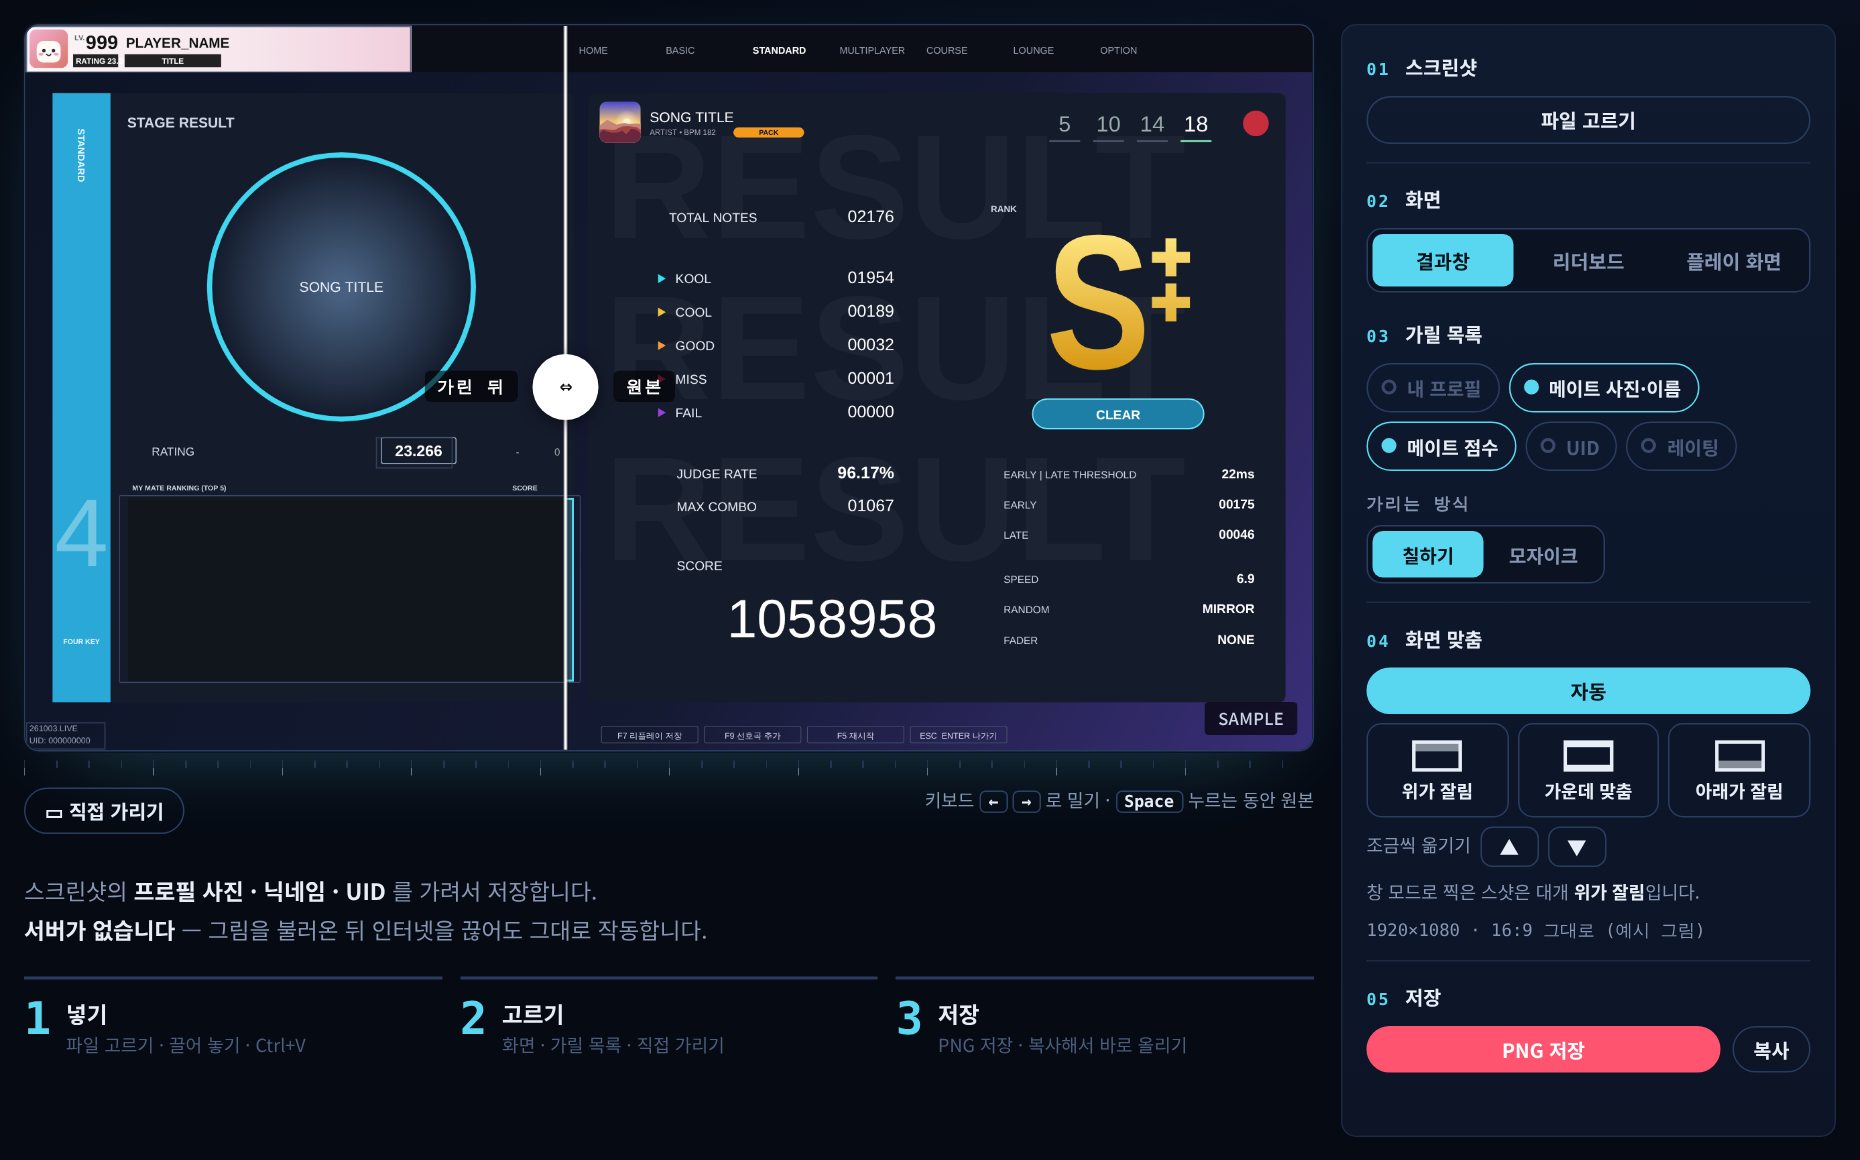
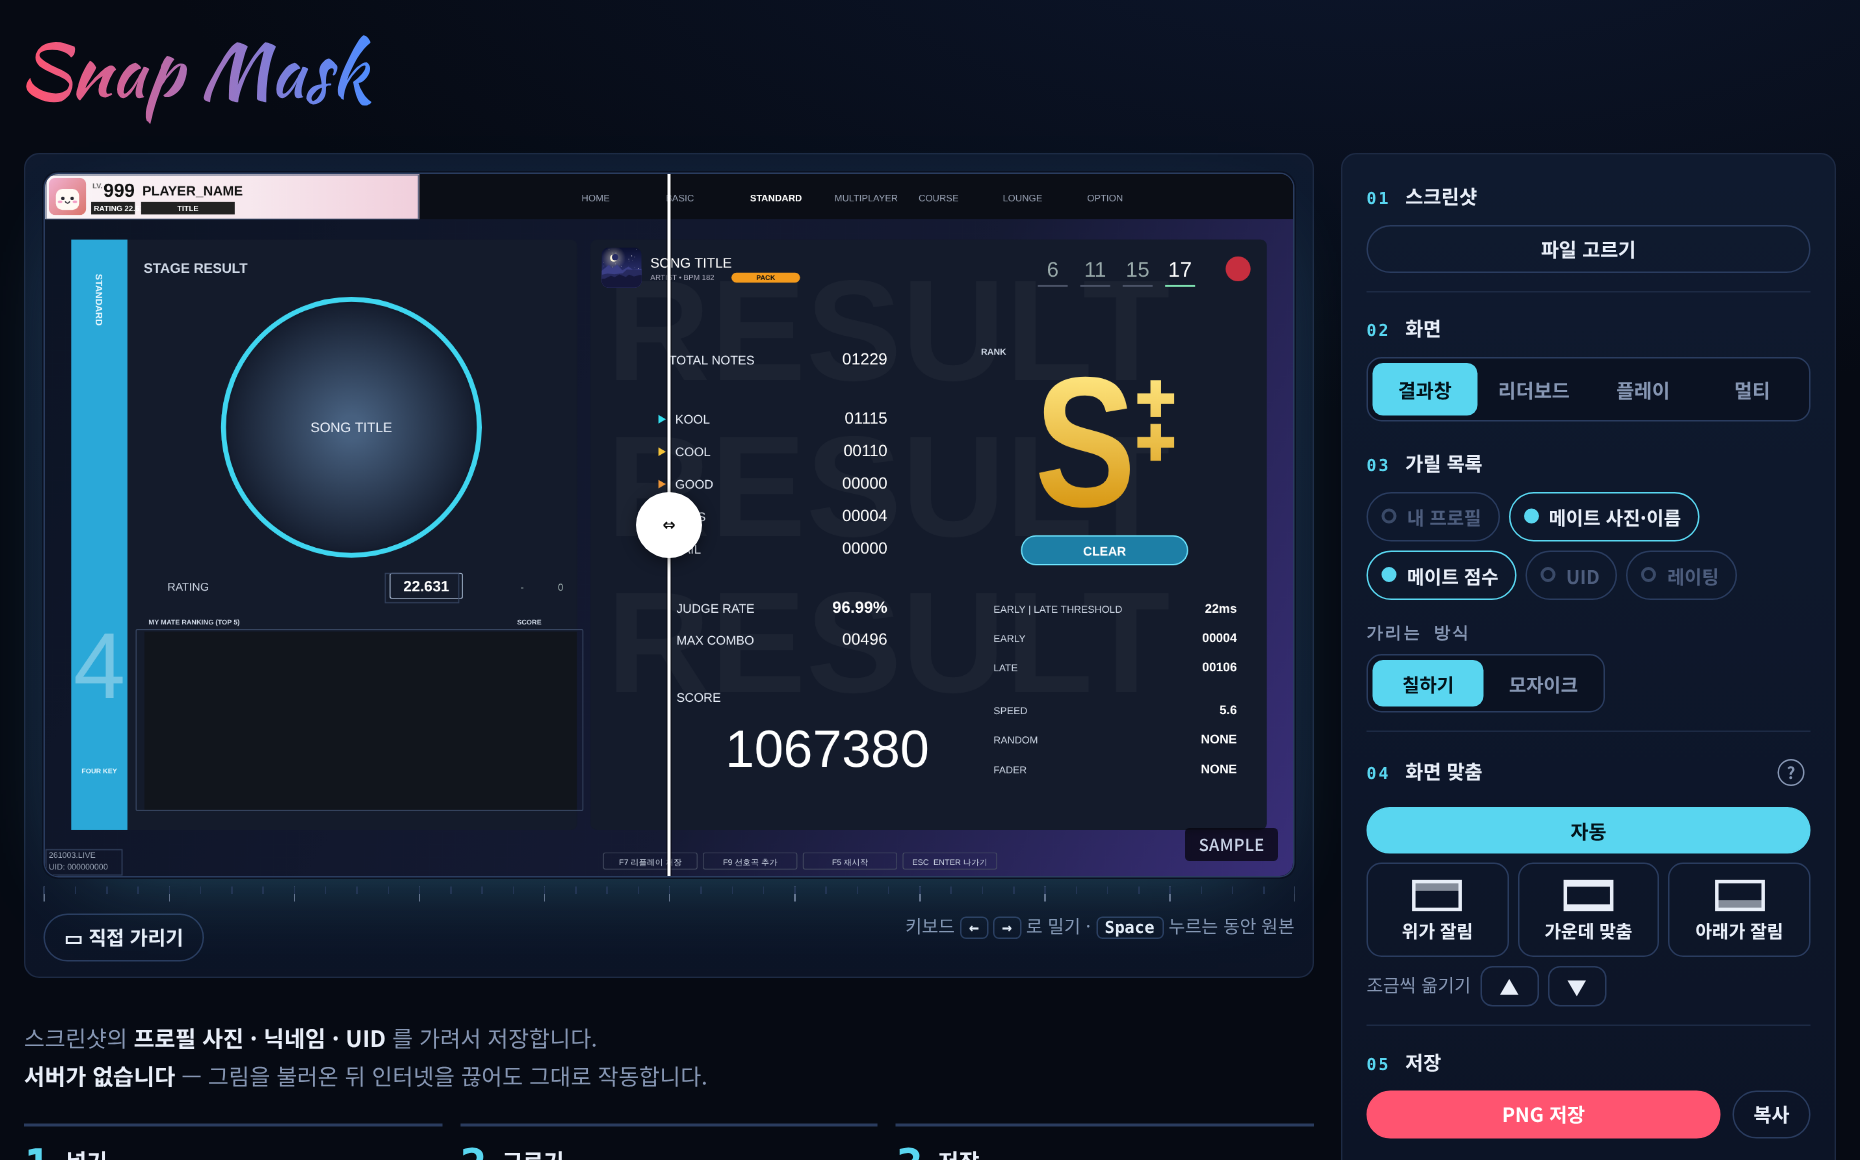
v1.0 — 멀티 결과창 · 두 판 배치
- 멀티 결과창 탭 추가 (내 프로필 · 참가자 1~5 · 메이트 순위 · UID)
- 미리보기를 오른쪽 패널과 같은 판에 담음 · 설명 위 선 뺌
- «화면 맞춤» 설명은 ? 단추로 접어 둠 · «(예시 그림)» 글자 뺌
- README: 멀티 결과창 한 줄 · 예시 그림 새로 찍음

diff --git a/index.html b/index.html
@@ -118,6 +118,8 @@ button.b.clr:hover{background:var(--acc2);color:#fff;border-color:var(--acc2)}
 button.b.qm{padding:5px 12px 5px 6px;font-size:12.5px;color:var(--dim)}
 button.b.qm i{font-style:normal;width:18px;height:18px;border-radius:50%;border:1.5px solid currentColor;display:grid;place-items:center;font:700 11px var(--f-ui)}
 button.b.qm[aria-expanded="true"]{color:var(--ink);border-color:var(--acc)}
+button.b.qm.only{margin-left:auto;padding:3px;border-color:transparent}
+button.b.qm.only[aria-expanded="true"]{border-color:var(--acc)}
 .helpbox{margin-top:10px;padding:12px 14px;border:1px solid var(--line2);border-radius:calc(var(--r) * .8);background:var(--bg2);font-size:13px;color:var(--dim)}
 .helpbox p{margin:0}.helpbox p+p{margin-top:5px}
 .helpbox b{color:var(--ink)}
@@ -134,6 +136,10 @@ button.b.qm[aria-expanded="true"]{color:var(--ink);border-color:var(--acc)}
 .th:focus-visible,.th .x:focus-visible{outline:2px solid var(--acc);outline-offset:2px}
 .seg button .cnt{font:600 11px var(--f-mono);margin-left:5px;opacity:.75}
 .skipnote{margin:8px 0 0;font-size:12.5px;color:var(--warn)}
+
+/* 작업 판 (100차 · 사람 결정 «① 두 판»): 미리보기·눈금·아래 줄을 오른쪽 패널과 같은 판에 담는다 */
+.workcard{background:var(--panel);border:var(--bw) solid var(--line);border-radius:var(--r);padding:12px 12px 10px}
+html[data-look="kool"] .workcard{background:linear-gradient(180deg,#0f1a2f,#0c1426)}
 
 /* 아래 띠 */
 .foot{margin-top:28px;display:flex;flex-wrap:wrap;gap:6px 22px;color:var(--faint);font:500 11.5px var(--f-mono);letter-spacing:.04em}
@@ -154,7 +160,7 @@ html[data-look="kool"] .ticks{display:block}
 
 /* 02 화면 종류 = 붙은 탭(하나만 고름) · 가릴 칸 = 칩(여럿) — 꼴로 구분 */
 .seg{display:grid;grid-auto-flow:column;grid-auto-columns:1fr;background:var(--bg2);border:1px solid var(--line2);border-radius:10px;padding:3px;gap:3px}
-.seg button{font:600 13px var(--f-ui);color:var(--dim);background:transparent;border:0;border-radius:7px;padding:8px 6px;cursor:pointer}
+.seg button{font:600 13px var(--f-ui);color:var(--dim);background:transparent;border:0;border-radius:7px;padding:8px 4px;cursor:pointer;white-space:nowrap}
 .seg button:hover{color:var(--ink)}
 .seg button.on{background:var(--acc);color:var(--acc-ink)}
 .seg button:focus-visible{outline:2px solid var(--acc);outline-offset:1px}
@@ -177,7 +183,7 @@ html[data-look="kool"] .ticks{display:block}
 @media (max-width:900px){.tip{display:none!important}}
 
 /* 미리보기 아래 — 설명(제목 밑에서 옮겨 옴) + 쓰는 법 세 걸음 */
-.below{margin-top:28px;padding-top:24px;border-top:1px solid var(--line);display:grid;gap:18px}
+.below{margin-top:28px;display:grid;gap:18px}
 .lead{margin:0;font-size:15px;line-height:1.7;color:var(--dim);max-width:72ch}
 .lead b{color:var(--ink)}
 .howto,.pledge,.kinds{display:none}
@@ -267,6 +273,7 @@ function AV(x, X, Y, W, hue, style) {
 
   <div class="main">
     <div class="stagebox">
+      <div class="workcard">
       <div class="stage" id="stage">
         <canvas id="cv" width="1920" height="1080" aria-label="미리보기 — 칸을 누르면 켜고 끕니다 · 끌면 새 칸"></canvas>
         <span class="lab l" id="labL">가린 뒤</span><span class="lab r" id="labR">원본</span>
@@ -277,13 +284,8 @@ function AV(x, X, Y, W, hue, style) {
       <div class="ticks" aria-hidden="true"></div>
       <div class="stagecap">
         <span id="capL"><button class="b tool" id="tool" aria-pressed="false">▭ 직접 가리기</button><span class="toolhint" id="toolHint" hidden>미리보기에서 끌면 그 자리를 바로 칠함 · 칸을 누르면 지움 · Esc 로 끄기</span></span>
-        <span id="capR"><button class="b qm" id="helpBtn" aria-expanded="false" aria-controls="helpBox"><i>?</i>미리보기 보는 법</button></span>
+        <span id="capR">키보드 <kbd>←</kbd> <kbd>→</kbd> 로 밀기 · <kbd>Space</kbd> 누르는 동안 원본</span>
       </div>
-      <div class="helpbox" id="helpBox" hidden>
-        <p><b>손잡이 왼쪽은 가린 뒤, 오른쪽은 원본</b>입니다. 손잡이를 끌거나 <kbd>←</kbd> <kbd>→</kbd> 로 밉니다.</p>
-        <p><kbd>Space</kbd> 를 누르는 동안은 원본만 보입니다.</p>
-        <p>가릴 칸이 오른쪽에 많은 리더보드는 손잡이를 오른쪽에 두고 시작합니다.</p>
-        <p>저장되는 그림은 손잡이 위치와 상관없이 늘 «가린 뒤» 입니다.</p>
       </div>
       <div class="batch" id="batch" hidden>
         <div class="batchbar"><h2 class="bt">넣은 스크린샷</h2><span id="batchInfo"></span><button class="b clr" id="batchClear">✕ 모두 비우기</button></div>
@@ -309,8 +311,8 @@ function AV(x, X, Y, W, hue, style) {
 
       <section class="step">
         <h2 class="sh"><span class="n">02</span>화면</h2>
-        <div class="seg" id="kind" role="tablist"><button data-k="result" role="tab">결과창</button><button data-k="board" role="tab">리더보드</button><button data-k="play" role="tab">플레이 화면</button></div>
-        <p class="skipnote" id="skipNote" hidden>2.0 결과창·리더보드·플레이 화면으로 보이지 않아 저장에서 빠집니다. 셋 중 하나가 맞다면 위에서 고르세요.</p>
+        <div class="seg" id="kind" role="tablist"><button data-k="result" role="tab">결과창</button><button data-k="board" role="tab">리더보드</button><button data-k="play" role="tab">플레이</button><button data-k="multi" role="tab">멀티</button></div>
+        <p class="skipnote" id="skipNote" hidden>결과창·리더보드·플레이 화면으로 보이지 않아 저장에서 빠집니다. 멀티 결과창이거나 맞는 화면이 있으면 위에서 고르세요.</p>
         <h2 class="sh" style="margin-top:18px"><span class="n">03</span>가릴 목록</h2>
         <div class="chips" id="chips"></div>
         <div class="sub">가리는 방식</div>
@@ -318,12 +320,14 @@ function AV(x, X, Y, W, hue, style) {
       </section>
 
       <section class="step" id="fitStep">
-        <h2 class="sh"><span class="n">04</span>화면 맞춤</h2>
+        <h2 class="sh"><span class="n">04</span>화면 맞춤<button class="b qm only" id="fitQ" aria-expanded="false" aria-controls="fitMore" aria-label="화면 맞춤 설명"><i>?</i></button></h2>
         <!-- 이름 B 변형: 늘 보인다 -->
         <div id="fitB">
           <div class="fitrow" id="ancB"></div>
-          <p class="hint">창 모드로 찍은 스샷은 대개 <b>위가 잘림</b>입니다.</p>
-          <p class="fitinfo" id="fitinfoB"></p>
+          <div id="fitMore" hidden>
+            <p class="hint">창 모드로 찍은 스샷은 대개 <b>위가 잘림</b>입니다.</p>
+            <p class="fitinfo" id="fitinfoB"></p>
+          </div>
         </div>
         <!-- 이름 배치안: 평소엔 자동만 · 어긋날 때 펼침 -->
         <div id="fitF">
@@ -362,6 +366,14 @@ function AV(x, X, Y, W, hue, style) {
       { id: "mates", name: "메이트 점수", r: [0.262, 0.652, 0.426, 0.905], on: true },
       { id: "uid", name: "UID", r: [0, 0.962, 0.062, 1], on: false },
       { id: "rating", name: "레이팅", r: [0.272, 0.568, 0.332, 0.612], on: false },
+    ],
+    /* 멀티 결과창 (100차 · 사람이 준 2.0 MULTIPLAY RESULT 1장에서 잼 · 1920×1080 → 2000 단위)
+       참가자 카드 x 900~1473px · 위 270 + 80×i · 높이 70px → 2000 단위로 937.5~1534.4 · 281.25 + 83.33×i · 72.9 · 넉넉히 1.5 */
+    multi: [
+      { id: "me", name: "내 프로필", r: [0, 0, 0.300, 0.065], on: true },
+      ...Array.from({ length: 5 }, (_, i) => ({ id: "mp" + i, name: "참가자 " + (i + 1), r: [936 / 2000, (281.25 + 83.33 * i - 1.5) / 1125, 1536 / 2000, (281.25 + 83.33 * i + 72.9 + 1.5) / 1125], on: true })),
+      { id: "mates", name: "메이트 순위", r: [0.078, 0.652, 0.412, 0.908], on: true },
+      { id: "uid", name: "UID", r: [0, 0.962, 0.062, 1], on: true },
     ],
     play: [
       { id: "me", name: "프로필 카드", r: [0.0286, 0.812, 0.3285, 0.878], on: true },
@@ -447,6 +459,39 @@ function AV(x, X, Y, W, hue, style) {
     };
     const uid = () => { T("261003.LIVE", 6, 1096, 13, "#9aa4b5"); T("UID: 000000000", 6, 1115, 13, "#9aa4b5"); };
 
+    if (kind === "multi") {
+      /* 멀티 결과창 — 참가자 다섯 (가짜 이름) */
+      const bg = x.createLinearGradient(0, 0, 1920, 1080); bg.addColorStop(0, "#2f6fa0"); bg.addColorStop(.6, "#41608a"); bg.addColorStop(1, "#7aa0c8"); x.fillStyle = bg; x.fillRect(0, 0, 1920, 1080);
+      R(0, 0, 2000, 73, "#15171c");
+      ["HOME", "BASIC", "STANDARD", "MULTIPLAYER", "COURSE", "LOUNGE", "OPTION"].forEach((t, i) => T(t, 860 + 150 * i, 44, 17, i === 3 ? "#fff" : "#999", 600, "center"));
+      RR(42, 104, 812, 948, 10, "#2a323d"); R(42, 104, 83, 948, "#33b8f0");
+      T("MULTIPLAY RESULT", 156, 158, 30, "#e6e8ec", 700); T("7 SECONDS", 826, 148, 22, "#3fd0ef", 800, "right"); T("TIME REMAINING", 818, 168, 13, "#ddd", 600, "right");
+      x.save(); x.beginPath(); x.arc(490 * S, 405 * S, 205 * S, 0, 7); x.clip(); jacket(285, 200, 410, ri(0, 359)); x.restore();
+      x.strokeStyle = "#2fc6f3"; x.lineWidth = 9 * S; x.beginPath(); x.arc(490 * S, 405 * S, 208 * S, 0, 7); x.stroke();
+      T("RATING", 198, 672, 26, "#ddd", 500); T("23.912", 655, 674, 34, "#fff", 600, "right"); R(677, 646, 145, 32, "#20262e"); T("+0.004", 760, 670, 17, "#fff", 600, "center");
+      R(156, 698, 667, 322, "#262d36"); T("MY MATE RANKING (TOP 5)", 167, 722, 14, "#ccc", 600); T("SCORE", 606, 722, 14, "#ccc", 600, "center"); T("JUDGE RATE", 758, 722, 14, "#ccc", 600, "center");
+      RR(875, 104, 1083, 948, 10, "#262c35");
+      R(896, 125, 1040, 75, "#1d2229"); jacket(896, 125, 72, ri(0, 359)); T("SONG TITLE", 990, 162, 26, "#fff", 500); T("ARTIST • BPM 180", 990, 186, 14, "#bbb");
+      [["5", "EZ"], ["12", "NM"], ["16", "HD"], ["19", "SHD"]].forEach((d, i) => { const cx = 1615 + 68 * i; T(d[0], cx, 168, 36, i === 3 ? "#fff" : "#888", 500, "center"); T(d[1], cx, 186, 11, "#aaa", 600, "center"); });
+      R(905, 226, 76, 34, "#1b1f25"); T("L Shift", 943, 250, 15, "#ddd", 500, "center"); RR(985, 226, 312, 34, 4, "#33c3f5"); T("MATCH", 1141, 250, 16, "#103040", 700, "center"); T("PERSONAL", 1458, 250, 16, "#ddd", 700, "center");
+      const ranks = ["A+", "S+", "S+", "", "S+"];
+      for (let i = 0; i < 5; i++) {
+        const y = 281.25 + 83.33 * i, me = i === 2, obs = i === 3;
+        R(937.5, y, 597, 72.9, me ? "#f5f1e6" : "#20252c"); avatar(946, y + 9, 54, ri(0, 359));
+        const ink = me ? "#111" : "#fff";
+        T("LV.", 1010, y + 22, 12, me ? "#555" : "#bbb", 600); T(String(ri(11, 999)), 1112, y + 39, 32, ink, 600, "right"); T("PLAYER " + (i + 1), 1124, y + 34, 20, ink, 600);
+        R(1010, y + 42, 102, 22, me ? "#222" : "#2e3138"); T("RATING " + (15 + Math.random() * 9).toFixed(3), 1015, y + 59, 13, "#fff", 600);
+        R(1124, y + 42, 186, 22, "#111"); T("TITLE", 1217, y + 59, 13, "#fff", 600, "center");
+        if (obs) { T("OBSERVER", 1747, y + 46, 30, "#fff", 700, "center"); continue; }
+        T(pick(["HD", "SHD"]), 1572, y + 30, 20, "#fff", 700, "center"); RR(1552, y + 40, 40, 20, 10, "#33c3f5"); T(pick(["5S", "6S", "8S"]), 1572, y + 55, 13, "#103040", 700, "center");
+        T(String(ri(900, 2900)), 1690, y + 26, 15, "#fff", 500, "right"); T(String(ri(5, 600)), 1690, y + 47, 15, "#fff", 500, "right"); T(String(ri(0, 80)), 1690, y + 68, 15, "#fff", 500, "right");
+        T(fmt(ri(950000, 1099000)), 1838, y + 30, 18, "#ddd", 500, "right"); T((90 + Math.random() * 9).toFixed(2) + "%", 1838, y + 55, 18, "#ddd", 500, "right");
+        T(ranks[i], 1895, y + 55, 50, "#f2c94c", 800, "center");
+      }
+      R(0, 1083, 2000, 42, "#15171c");
+      card(0, 0, 600, 72, "999", "PLAYER_NAME", "23.912");
+      uid(); return c;
+    }
     if (kind === "board") {
       /* 리더보드 TOP 100 — 랭킹 1~10 */
       const bg = x.createLinearGradient(0, 0, 0, 1080); bg.addColorStop(0, "#1b2a44"); bg.addColorStop(.7, "#2a4f7a"); bg.addColorStop(1, "#6e57a8"); x.fillStyle = bg; x.fillRect(0, 0, 728 * S, 1080);
@@ -469,8 +514,8 @@ function AV(x, X, Y, W, hue, style) {
       const sc = rows.map(fmt), jr = rows.map(v2 => (Math.min(100, (v2 - TOT) / 11000)).toFixed(2) + "%");
       const lv = rows.map(() => ri(250, 999)), rt = rows.map(() => (23.2 + Math.random() * .45).toFixed(3)), hues = rows.map(() => ri(0, 359)), lights = rows.map(() => Math.random() < .3);
       for (let i = 0; i < 10; i++) {
-        const y = 243 + 81.1 * i, light = lights[i];
-        R(780, y, 1168, 72, "#191b20"); R(885, y, 598, 72, light ? "#f2eef0" : "#22252c");
+        const y = 243 + 81.25 * i, light = lights[i];
+        R(780, y, 1168, 72.6, "#191b20"); R(885.9, y, 598.5, 72.6, light ? "#f2eef0" : "#22252c");
         T(String(rk[i]), 833, y + 48, 30, "#fff", 500, "center");
         avatar(895, y + 10, 53, hues[i]);
         const ink = light ? "#111" : "#fff";
@@ -570,7 +615,7 @@ function AV(x, X, Y, W, hue, style) {
   const ANAME = { bottom: "위가 잘림", top: "아래가 잘림", center: "가운데 맞춤" };
   function fit() {
     const W = cv.width, Hh = cv.height;
-    if (st.sample || !st.img) { st.frame = [0, 0, W, Hh]; st.fitNote = W + "×" + Hh + " · 16:9 그대로 (예시 그림)"; st.fitAuto = "16:9 그대로 ✓"; return; }
+    if (st.sample || !st.img) { st.frame = [0, 0, W, Hh]; st.fitNote = W + "×" + Hh + " · 16:9 그대로"; st.fitAuto = "16:9 그대로 ✓"; return; }
     const [l, t, r, b] = bands(st.img, W, Hh), cx = l, cy = t, cw = W - l - r, ch = Hh - t - b, fh = cw * 9 / 16;
     let auto, why;
     if (Math.abs(ch - fh) <= Math.max(3, fh * 0.006)) { auto = "center"; why = "16:9 그대로"; }
@@ -706,7 +751,7 @@ function AV(x, X, Y, W, hue, style) {
[1 lines of base64/hex data omitted]
   const SPLIT0 = { board: 0.8 };   /* 화면마다 손잡이 시작 자리 — 가릴 칸이 전부 «가린 뒤» 쪽에 보이게 */
   function splitFor(k) { st.split = SPLIT0[k] || 0.5; }
-  const CUT = { result: 0.6, board: 0.72, play: 0.65 }, KN = { result: "결과창", board: "리더보드", play: "플레이 화면" };
+  const CUT = { result: 0.6, board: 0.72, play: 0.65 }, KN = { result: "결과창", board: "리더보드", play: "플레이 화면", multi: "멀티 결과창" };
   const B = { items: [], cur: -1, busy: false, tok: 0, seq: 0 };
   function frameOf(bm) { const w = bm.width, h = bm.height, fh = Math.round(w * 9 / 16); return [0, Math.max(0, h - fh), w, Math.min(h, fh)]; }
   function judge(bm) {
@@ -783,7 +828,7 @@ function AV(x, X, Y, W, hue, style) {
     renderStrip(); fit(); syncBtns(); draw();
   }
   $("batchClear").onclick = clearBatch;
-  $("helpBtn").onclick = () => { const o = $("helpBox").hidden; $("helpBox").hidden = !o; $("helpBtn").setAttribute("aria-expanded", String(o)); };
+  $("fitQ").onclick = () => { const o = $("fitMore").hidden; $("fitMore").hidden = !o; $("fitQ").setAttribute("aria-expanded", String(o)); };
   function batchUI() {
     const on = B.items.length > 0, ok = B.items.filter(i => i.kind);
     $("batch").hidden = !on; $("saveAll").hidden = !on; $("saveSub").hidden = !on; $("saveBox").classList.toggle("multi", on);

diff --git a/README.md b/README.md
@@ -28,7 +28,7 @@
 ## 사용법
 
 1. 스크린샷을 끌어 놓거나, 붙여 넣거나(Ctrl+V), «파일 고르기» 로 불러옵니다.
-2. 화면 종류를 고릅니다 — 결과창 · 리더보드 · 플레이 화면
+2. 화면 종류를 고릅니다 — 결과창 · 리더보드 · 플레이 화면 · 멀티 결과창
 3. 가릴 목록을 켜고 끕니다. 미리보기에서 칸을 눌러도 됩니다.
 4. 목록에 없는 곳은 «▭ 직접 가리기» 를 켜고 미리보기에서 끌어서 칠합니다.
 5. «PNG 저장» 또는 «복사»
@@ -39,7 +39,7 @@
 
 - 스크린샷 여러 장을 한 번에 끌어 놓거나 «파일 고르기» 에서 여러 개를 고릅니다.
 - 2.0 결과창 · 리더보드 · 플레이 화면은 스스로 골라 둡니다. 그 밖의 그림(2.0 전 화면 포함)은 «확인 필요» 로 빠지고 저장되지 않습니다.
-  - 잘못 골랐거나 «확인 필요» 로 빠진 그림은 그 그림을 누른 뒤 화면 종류를 고릅니다.
+  - 멀티 결과창, 잘못 골랐거나 «확인 필요» 로 빠진 그림은 그 그림을 누른 뒤 화면 종류를 고릅니다.
 - 가릴 목록은 화면 종류마다 하나입니다. 화면 맞춤과 «직접 가리기» 는 그림마다 따로입니다.
 - «N장 ZIP 으로 저장» — 두 장 이상이면 ZIP 파일 하나로 받습니다. JPG 로 넣은 그림은 JPG, PNG 는 PNG 로 저장됩니다.
 
@@ -50,6 +50,7 @@
 | 결과창 | 메이트 사진·이름 · 메이트 점수 | 내 프로필 · UID · 레이팅 |
 | 리더보드 | 내 프로필 · PLAYER 1~10 · UID | — |
 | 플레이 화면 | 프로필 카드 · UID | — |
+| 멀티 결과창 | 내 프로필 · 참가자 1~5 · 메이트 순위 · UID | — |
 
 점수 · JUDGE RATE · 순위는 가리지 않습니다.
 
